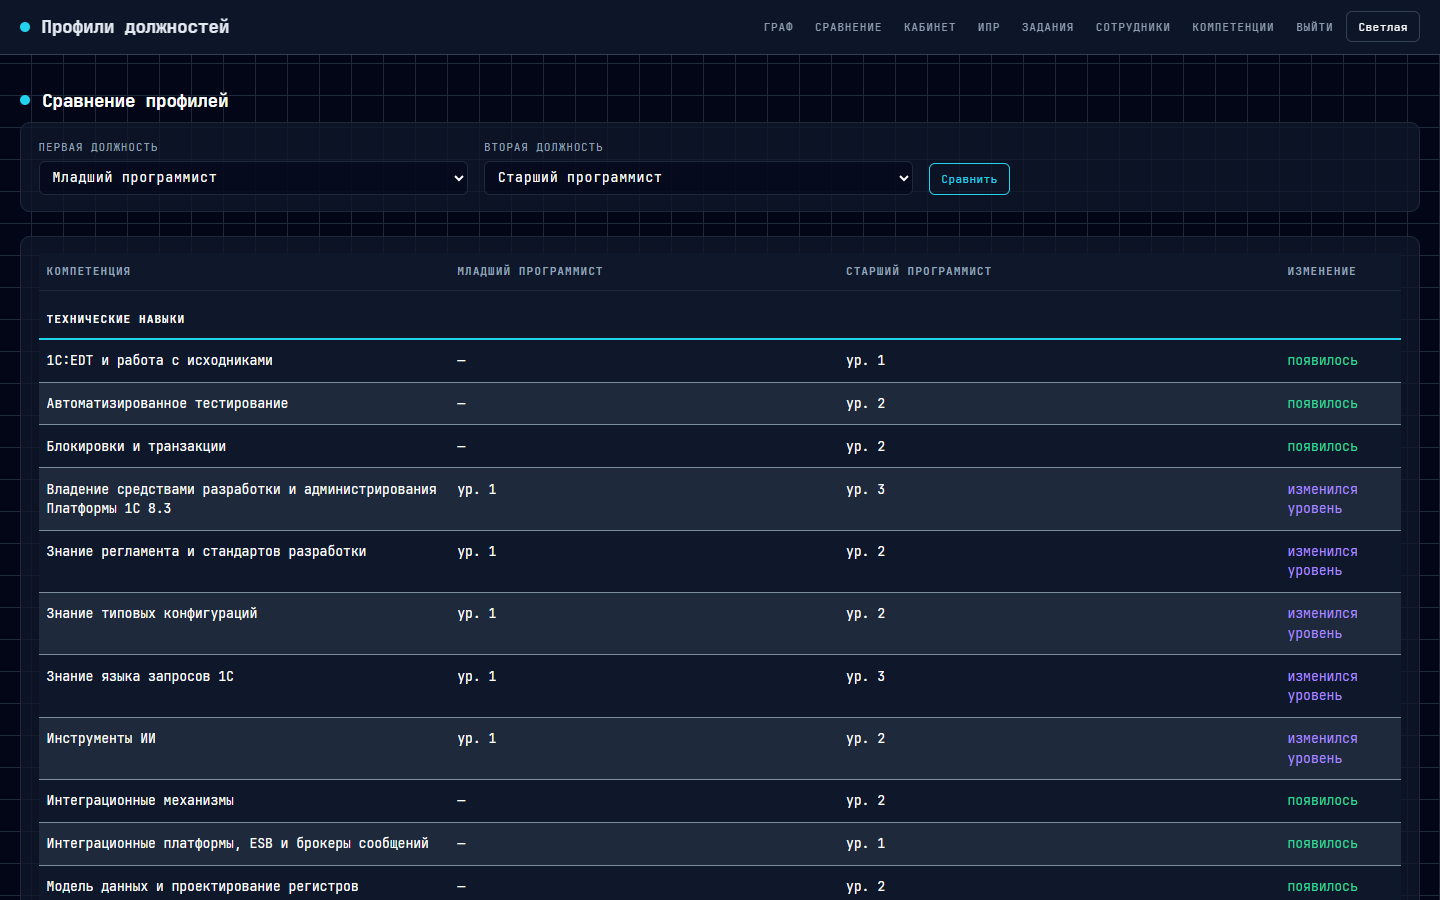
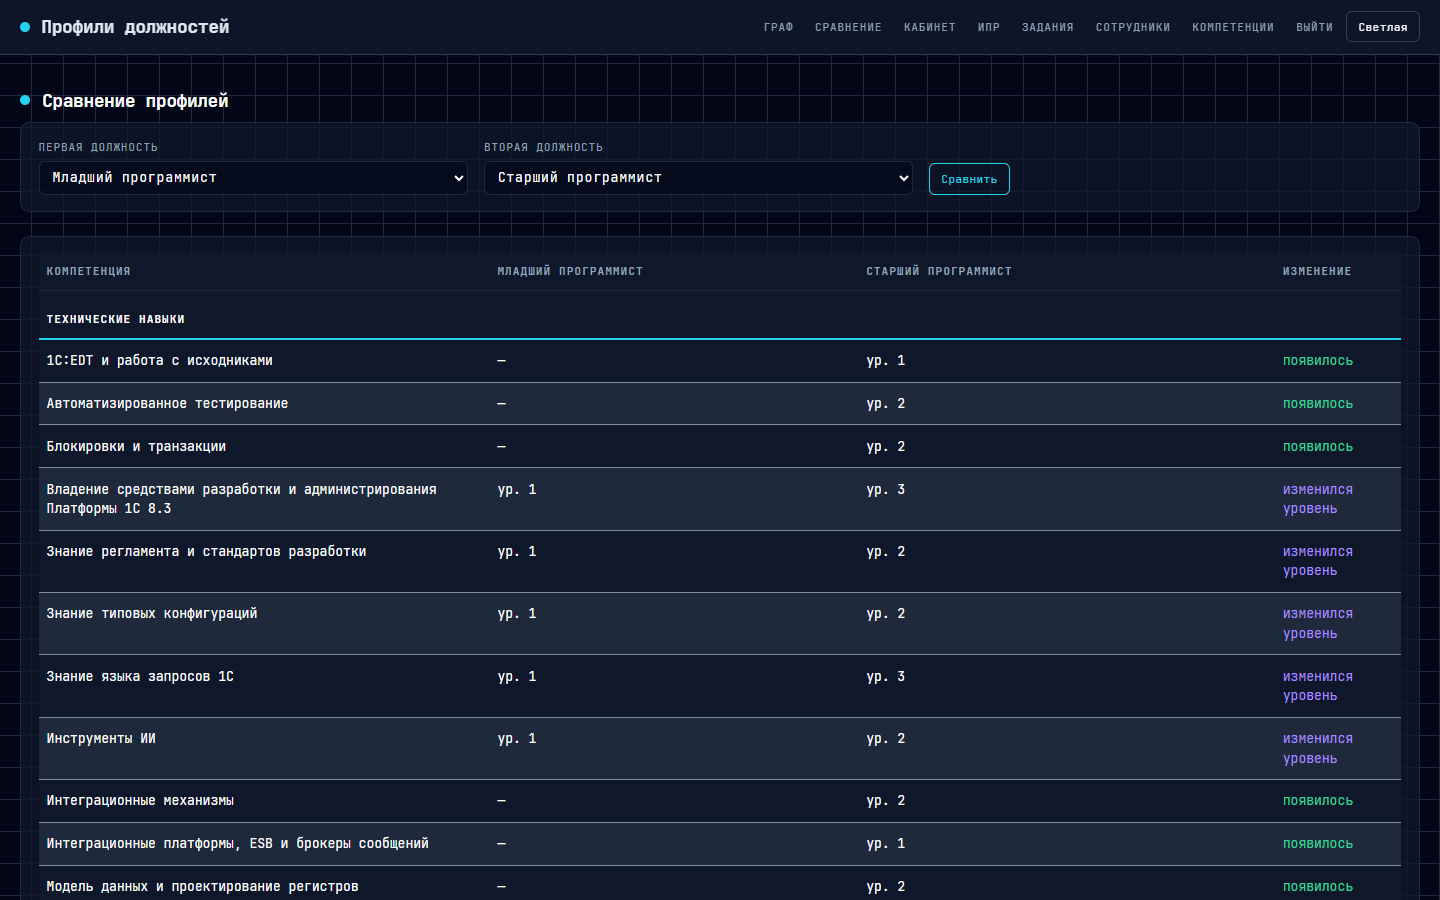
fix(ui): подпись шагом --fs-sm и отказ от фиксированного размера корня
По замечаниям ревью CodeRabbit.

1. Убрано правило html { font-size: 16px }. rem считается от корня, а не от body,
   поэтому фиксация 16px отменяла настройку размера шрифта в браузере. Без правила
   корень берёт значение браузера (по умолчанию те же 16px), вид не меняется.
   Комментарий, который утверждал обратное, удалён вместе с правилом.

2. Возвращён шаг подписи: класс .caption (font-size: var(--fs-sm)) для второй строки
   под названием в списках, пояснения под полем и id компетенции. После удаления
   text-xs эти строки наследовали 13px и сравнивались с названием наравне.

3. e2e/typography.spec.ts: тест «подпись под названием мельче названия» — на главной
   сравнивает вычисленные размеры ссылки и .caption, чтобы шаг нельзя было потерять
   молча.

4. Снимки after/01-home, 03-compare, 04-idps пересняты: подписи на них теперь 11px.

Замечание CodeRabbit про DELETE FROM competency_links в сбросе отклонено:
scripts/seed.ts уже удаляет competency_links до competencies (строка 54),
порядок описан в docs/engineering-decisions.md.

diff --git a/e2e/typography.spec.ts b/e2e/typography.spec.ts
@@ -85,6 +85,19 @@ for (const [path, label] of PAGES) {
   });
 }
 
+test("подпись под названием мельче названия: шаг шкалы, а не один размер", async ({ page }) => {
+  await page.goto("/");
+  const row = page.locator("li.list-row").first();
+  const name = row.getByRole("link").first();
+  const caption = row.locator(".caption").first();
+  await expect(caption).toBeVisible();
+
+  const [nameSize, captionSize] = await Promise.all(
+    [name, caption].map((locator) => locator.evaluate((element) => Number.parseFloat(getComputedStyle(element).fontSize))),
+  );
+  expect(captionSize, `подпись ${captionSize}px не мельче названия ${nameSize}px`).toBeLessThan(nameSize);
+});
+
 test("проверка замечает размер вне шкалы", async ({ page }) => {
   await page.goto("/");
   // Проба с размером, которого нет в шкале: 0.7rem — 11.2px, не 11px из --fs-sm.

diff --git a/src/app/compare/page.tsx b/src/app/compare/page.tsx
@@ -96,13 +96,13 @@ export default async function ComparePage({
                       <td>
                         {formatPresence(line.type, line.presentA, line.levelA)}
                         {line.change === "criteria" && line.criteriaA ? (
-                          <div className="mt-1 muted">{line.criteriaA}</div>
+                          <div className="mt-1 muted caption">{line.criteriaA}</div>
                         ) : null}
                       </td>
                       <td>
                         {formatPresence(line.type, line.presentB, line.levelB)}
                         {line.change === "criteria" && line.criteriaB ? (
-                          <div className="mt-1 muted">{line.criteriaB}</div>
+                          <div className="mt-1 muted caption">{line.criteriaB}</div>
                         ) : null}
                       </td>
                       <td>{changeLabel(line.change)}</td>

diff --git a/src/app/globals.css b/src/app/globals.css
@@ -97,12 +97,6 @@ body {
   font-family: var(--font-mono), ui-monospace, SFMono-Regular, Menlo, Consolas, monospace;
 }
 
-/* База rem — 16px, как у браузера по умолчанию: шкала и отступы заданы в rem и не должны
-   зависеть от размера основного текста. Иначе --fs-sm считался бы от размера body. */
-html {
-  font-size: 16px;
-}
-
 body {
   font-size: var(--fs-md);
 }
@@ -480,6 +474,12 @@ details[open] > .skill-summary::before {
 
 .dim {
   color: var(--text-dim);
+}
+
+/* Подпись: вторая строка под названием в списке, пояснение под полем.
+   Отличается от основного текста шагом шкалы, не цветом и не весом. */
+.caption {
+  font-size: var(--fs-sm);
 }
 
 .link-accent {

diff --git a/src/app/admin/competencies/page.tsx b/src/app/admin/competencies/page.tsx
@@ -47,7 +47,7 @@ export default async function CompetenciesPage() {
                         {item.name}
                       </a>
                       {item.parentId ? (
-                        <div className="mt-1 muted">родитель: {nameById.get(item.parentId) ?? item.parentId}</div>
+                        <div className="mt-1 muted caption">родитель: {nameById.get(item.parentId) ?? item.parentId}</div>
                       ) : null}
                     </div>
                     <span className={competencyTypeChip(item.type)}>{competencyTypeLabel(item.type)}</span>

diff --git a/src/app/idps/page.tsx b/src/app/idps/page.tsx
@@ -127,7 +127,7 @@ export default async function IdpsPage({
                 <a href={`/idps/${idp.id}`} className="link-accent font-medium">
                   {source?.name ?? idp.sourceJobId} → {target?.name ?? idp.targetJobId}
                 </a>
-                <div className="mt-1 muted">
+                <div className="mt-1 muted caption">
                   {owner?.name ?? idp.employeeId}
                   {creator ? ` · создал ${creator.name}` : ""}
                   {idp.periodStart && idp.periodEnd ? ` · ${idp.periodStart} — ${idp.periodEnd}` : ""}

diff --git a/src/components/LoginForm.tsx b/src/components/LoginForm.tsx
@@ -54,7 +54,7 @@ export function BootstrapAdminForm({ jobs }: { jobs: { id: string; name: string 
           minLength={8}
         />
       </label>
-      <p className="muted">Пароль учётки — не короче 8 символов. Это не пароль из .env.local.</p>
+      <p className="muted caption">Пароль учётки — не короче 8 символов. Это не пароль из .env.local.</p>
       <button className="btn-primary w-full" type="submit">
         Создать первого админа
       </button>

diff --git a/src/app/admin/competencies/[competencyId]/page.tsx b/src/app/admin/competencies/[competencyId]/page.tsx
@@ -33,7 +33,7 @@ export default async function CompetencyPage({ params }: { params: Promise<{ com
         <span className="pulse-dot" />
         <h1 className="page-title">{competency.name}</h1>
       </div>
-      <p className="muted">{competency.id}</p>
+      <p className="muted caption">{competency.id}</p>
       <ActionForm action={saveCompetencyAction} className="panel panel-pad grid gap-3 md:grid-cols-2">
         <CompetencyFields competency={competency} roots={roots} />
         <button className="btn-primary w-fit" type="submit">

diff --git a/src/app/assignments/page.tsx b/src/app/assignments/page.tsx
@@ -73,7 +73,7 @@ export default async function AssignmentsPage({
                   <a href={`/assignments/${encodeURIComponent(row.id)}`} className="link-accent font-medium">
                     {row.name}
                   </a>
-                  <div className="mt-1 muted">
+                  <div className="mt-1 muted caption">
                     {row.competencyName}
                     {row.level != null ? ` · ур. ${row.level}` : ""}
                   </div>

diff --git a/src/app/people/page.tsx b/src/app/people/page.tsx
@@ -27,7 +27,7 @@ export default async function PeoplePage() {
               <a href={`/people/${row.id}`} className="link-accent font-medium">
                 {row.name}
               </a>
-              <div className="mt-1 muted">
+              <div className="mt-1 muted caption">
                 {jobName.get(row.jobId) ?? row.jobId}
                 {row.isActive !== 1 ? " · не активен" : ""}
                 {row.isAdmin === 1 ? " · админ" : ""}

diff --git a/src/app/page.tsx b/src/app/page.tsx
@@ -38,7 +38,7 @@ export default function HomePage() {
                 >
                   {job.name}
                 </a>
-                <div className="mt-1 muted">
+                <div className="mt-1 muted caption">
                   {LANE[job.lane]}
                   {profiled.has(job.id) ? " · профиль есть" : " · профиль не заполнен"}
                 </div>
